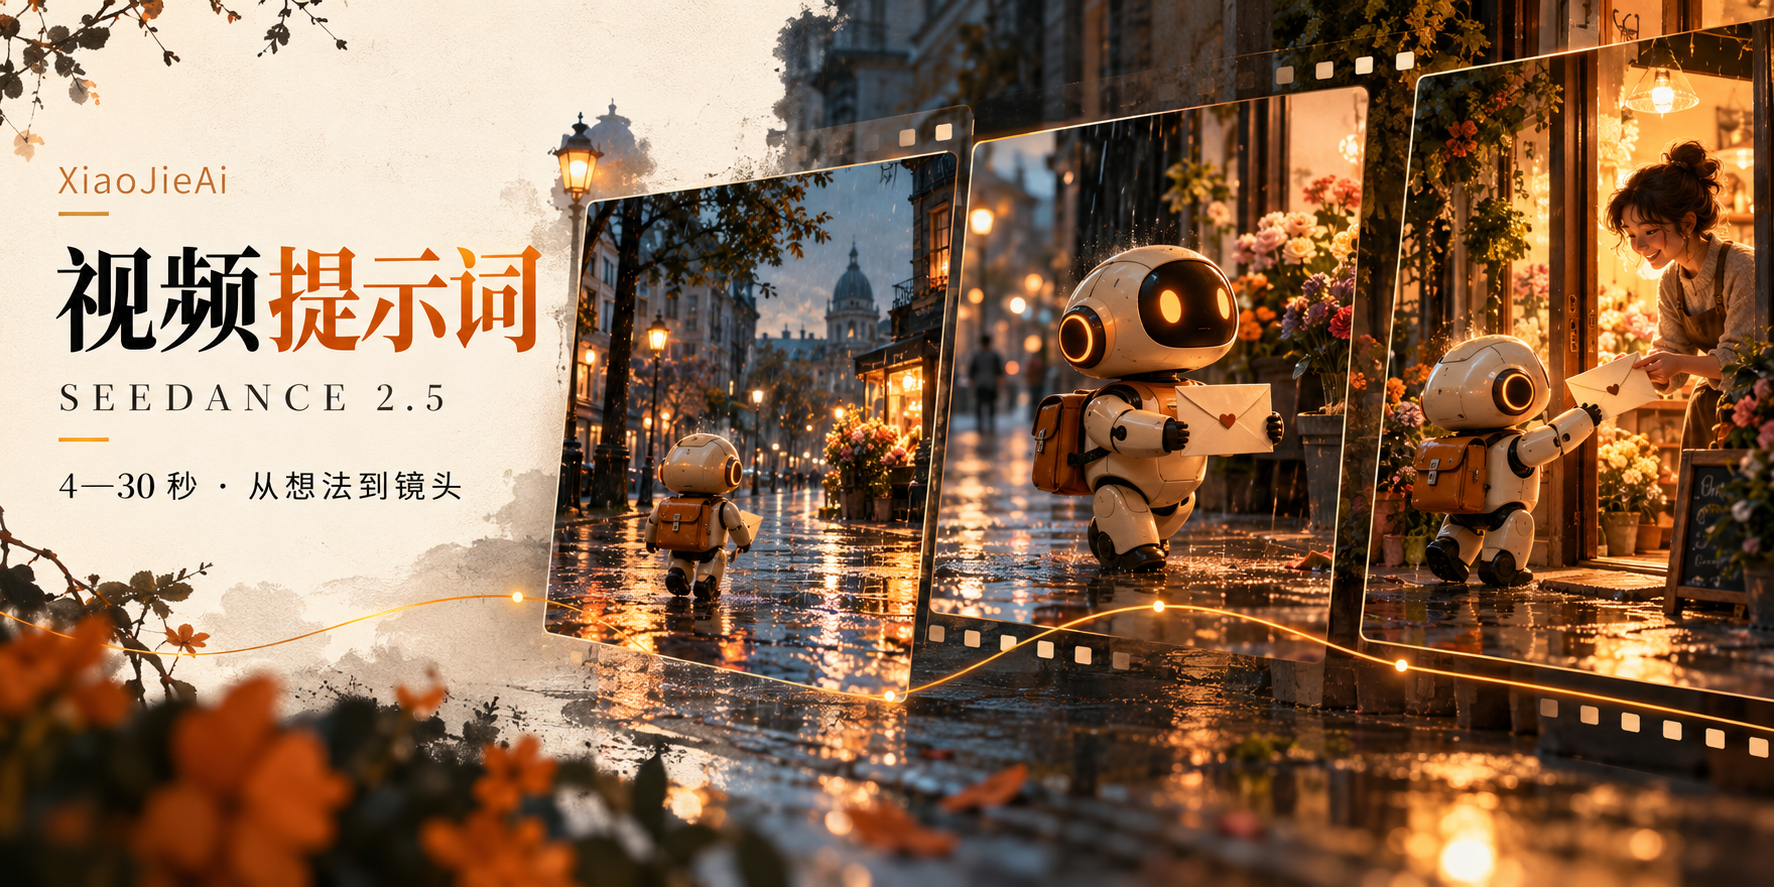
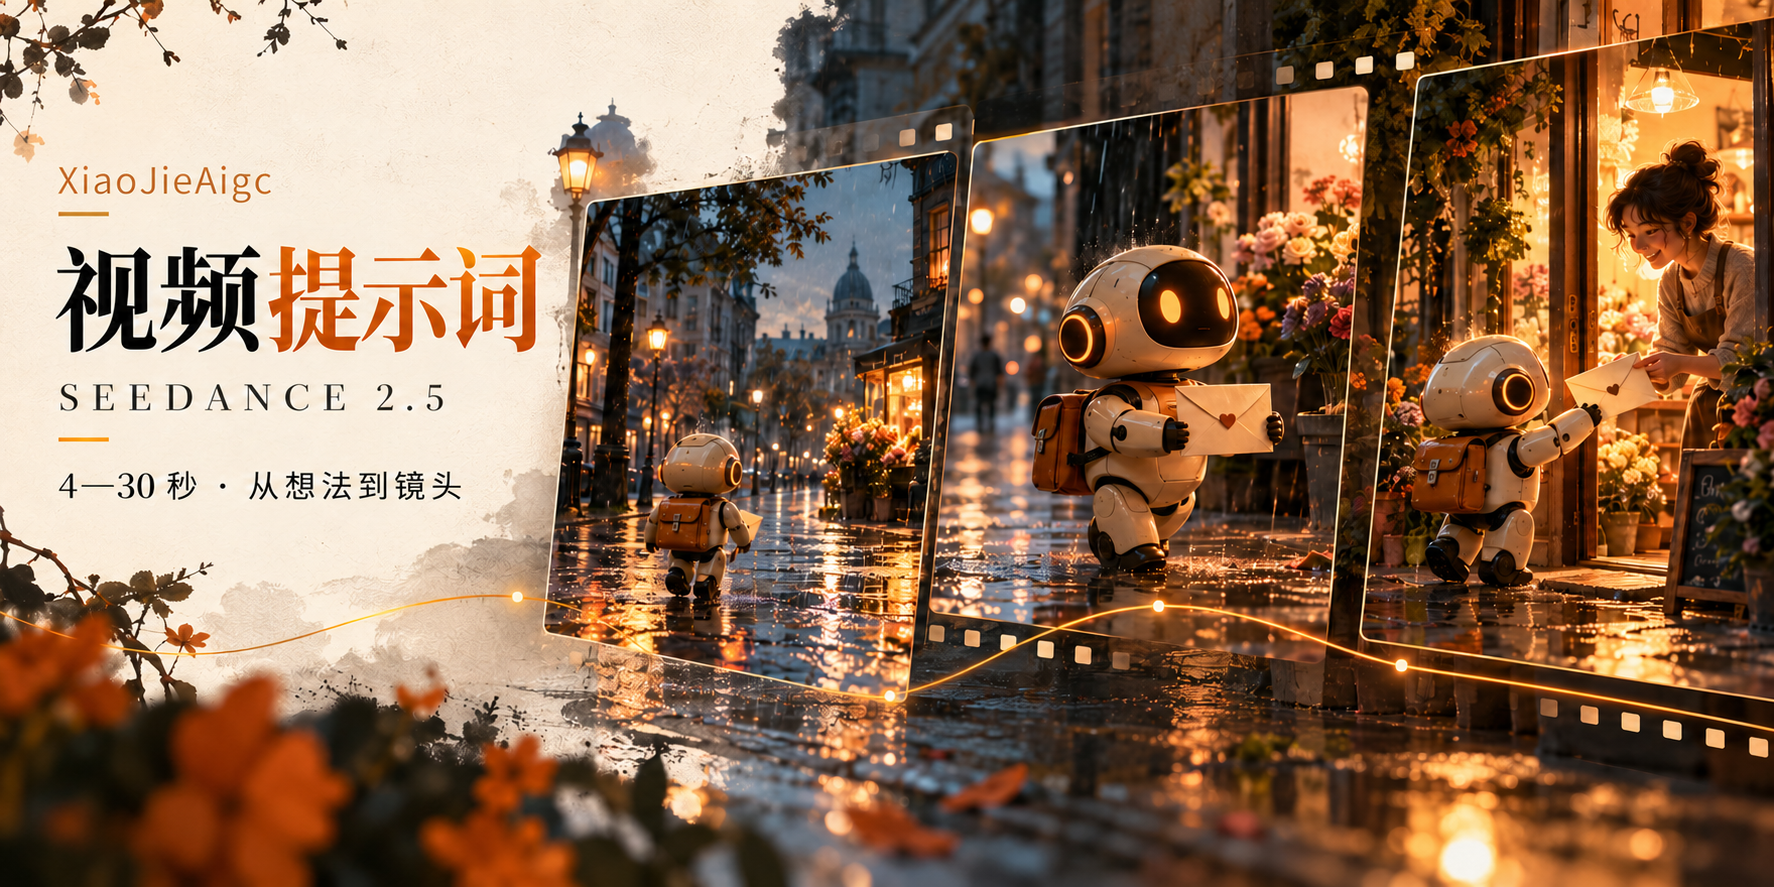
Brand video skill and usage examples as XiaoJieAigc

diff --git a/README.md b/README.md
@@ -1,8 +1,8 @@
 <p align="center">
-  <img src="./cover.png" alt="XiaoJieAi Seedance 2.5 视频提示词：机器人雨夜送信的连续分镜示意" width="100%">
+  <img src="./cover.png" alt="XiaoJieAigc Seedance 2.5 视频提示词：机器人雨夜送信的连续分镜示意" width="100%">
 </p>
 
-<h1 align="center">Seedance 2.5 视频提示词 Skill</h1>
+<h1 align="center">XiaoJieAigc · Seedance 2.5 视频提示词 Skill</h1>
 
 <p align="center"><strong>把创意、素材、脚本与分镜，整理成4—30秒的视频提示词。</strong></p>
 <p align="center">从零构思 · 素材分析 · 脚本整理 · 精确分镜 · 镜头与音效</p>
@@ -33,7 +33,7 @@
 安装或导入后，复制下面的例子给支持 Skill 的 AI 工具：
 
 ```text
-使用 $seedance-2-5-video-prompt。
+使用 $xiaojieaigc-seedance-2-5-video-prompt。
 我想做一个12秒的温暖短片：送信机器人在雨后的街角，
 把一封信交给花店主人。三维动画风格，16:9，没有参考图。
 请先帮我考虑动作和镜头，再输出完整视频提示词。
@@ -43,7 +43,7 @@
 **已经有素材？这样说：**
 
 ```text
-使用 $seedance-2-5-video-prompt，帮我做15秒视频提示词。
+使用 $xiaojieaigc-seedance-2-5-video-prompt，帮我做15秒视频提示词。
 已上传角色.png、街道.png和参考视频。
 角色图只锁定脸、发型与服饰；街道图参考空间与光线；
 参考视频只借用镜头节奏，不使用里面的人物和声音。
@@ -125,7 +125,7 @@
 直接上传脚本或粘贴分镜，并说明哪些地方不能改：
 
 ```text
-使用 $seedance-2-5-video-prompt。
+使用 $xiaojieaigc-seedance-2-5-video-prompt。
 请保留我的镜头顺序和秒点，只补充运镜、光影与音效：
 0—4秒：角色走到窗边。
 4—8秒：角色停下，镜头从侧后方缓慢靠近。
@@ -139,14 +139,14 @@
 **方式一：让支持仓库安装的工具帮你导入。**
 
 ```text
-请从这个GitHub仓库导入视频提示词Skill：
-https://github.com/XiaoJieAi66/seedance-2-5-video-prompt
+请从这个GitHub仓库导入XiaoJieAigc视频提示词Skill：
+https://github.com/XiaoJieAi66/XiaoJieAigc-seedance-2-5-video-prompt
 技能文件是根目录的SKILL.md。
 如果当前工具无法安装，请说明手动导入方法，不要声称安装成功。
 安装后，先了解我想拍什么、希望多长，以及有哪些素材、脚本或分镜。
 ```
 
-**方式二：手动下载。** 点击仓库上方的 **Code → Download ZIP**，解压后，将包含 `SKILL.md` 的 `seedance-2-5-video-prompt` 文件夹导入你使用的工具。具体入口以该工具说明为准。
+**方式二：手动下载。** 点击仓库上方的 **Code → Download ZIP**，解压后，先把技能文件夹重命名为 `xiaojieaigc-seedance-2-5-video-prompt`，再将包含 `SKILL.md` 的 `xiaojieaigc-seedance-2-5-video-prompt` 文件夹导入你使用的工具。具体入口以该工具说明为准。
 
 普通聊天工具没有 Skill 安装能力时，可将 [SKILL.md](./SKILL.md) 全文作为工作说明发给 AI，再提供任务。
 
@@ -175,6 +175,6 @@ https://github.com/XiaoJieAi66/seedance-2-5-video-prompt
 
 ---
 
-**先准备角色：** [角色设定图提示词 Skill →](https://github.com/XiaoJieAi66/character-sheet-prompt)
+**先准备角色：** [角色设定图提示词 Skill →](https://github.com/XiaoJieAi66/XiaoJieAigc-character-sheet-prompt)
 
-<p align="center">由 <a href="https://github.com/XiaoJieAi66">XiaoJieAi</a> 整理 · 让想法变成清楚的镜头</p>
+<p align="center">由 <a href="https://github.com/XiaoJieAi66">XiaoJieAigc</a> 整理 · 让想法变成清楚的镜头</p>

diff --git a/SKILL.md b/SKILL.md
@@ -1,9 +1,9 @@
 ---
-name: seedance-2-5-video-prompt
+name: xiaojieaigc-seedance-2-5-video-prompt
 description: "分析用户的创意、人物图、场景图、参考视频、现有脚本或分镜，规划4至30秒短片并输出Seedance 2.5视频提示词。适用于从零构思、素材驱动、脚本转提示词和精确分镜整理，采用基础设定、角色场景、逐秒镜头调度和核心约束结构。"
 ---
 
-# Seedance 2.5 视频提示词
+# XiaoJieAigc Seedance 2.5 Video Prompt｜视频提示词
 
 帮助用户把“想拍什么”和“手里有什么”变成时长4—30秒、动作可执行、素材职责清楚的视频提示词。先完成必要的创意与镜头设计，最终交付可复制到视频生成平台的完整文字；不默认提交生成任务，也不以脚本分析代替最终提示词。
 
